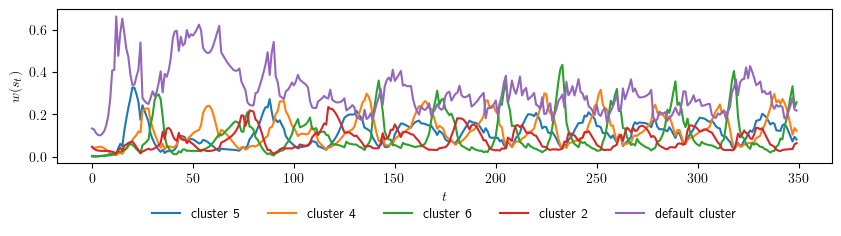
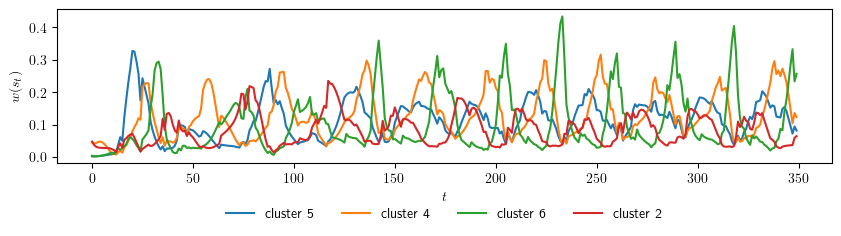
active default hopper only

diff --git a/plot_cluster_activation.py b/plot_cluster_activation.py
@@ -195,28 +195,28 @@ if __name__ == '__main__':
     # n_clusters = 10
     # # idxs = [k for k in range(n_clusters)]
     # idxs = [5, 4, 6, 2]
-    # plot_default = True
+    # plot_default = False
     # seed = 0
     # ratios = [3.5, 1]
 
-    # env_id = 'HopperBulletEnv-v0'
-    # log_name = 'Results/final_medium/HopperBulletEnv-v0/metricrl_c10hcovr_expdTruet1.0snone'
-    # n_clusters = 10
-    # # idxs = [k for k in range(n_clusters)]
-    # idxs = [0, 9, 4]
-    # plot_default = True
-    # seed = 12
-    # ratios = [3.5, 1]
-
-    env_id = 'HalfCheetahBulletEnv-v0'
-    log_name = 'Results/final_medium/HalfCheetahBulletEnv-v0/metricrl_c10hcovr_expdTruet0.33snone'
-    idxs = [4, 2, 9, 0]
-    # idxs = [k for k in range(10)]
-    # idxs = [0, 3, 4]
-    plot_default = True
-    seed = 2
-    ratios = [2, 1]
+    env_id = 'HopperBulletEnv-v0'
+    log_name = 'Results/final_medium/HopperBulletEnv-v0/metricrl_c10hcovr_expdTruet1.0snone'
     n_clusters = 10
+    # idxs = [k for k in range(n_clusters)]
+    idxs = [0, 9, 4]
+    plot_default = True
+    seed = 12
+    ratios = [3.5, 1]
+
+    # env_id = 'HalfCheetahBulletEnv-v0'
+    # log_name = 'Results/final_medium/HalfCheetahBulletEnv-v0/metricrl_c10hcovr_expdTruet0.33snone'
+    # idxs = [4, 2, 9, 0]
+    # # idxs = [k for k in range(10)]
+    # # idxs = [0, 3, 4]
+    # plot_default = False
+    # seed = 2
+    # ratios = [2, 1]
+    # n_clusters = 10
 
     max_time_all = 350
     max_time_selected = 350

diff --git a/replay.py b/replay.py
@@ -79,7 +79,7 @@ def load_policy(log_name, iteration, seed):
 
 
 if __name__ == '__main__':
-    dt = 1/5
+    dt = 1/3
     #dt = 0
 
     horizon = 1000
@@ -89,13 +89,13 @@ if __name__ == '__main__':
     # log_name = 'Results/final_medium/AntBulletEnv-v0/metricrl_c10hcovr_expdTruet0.33snone'
     # seed = 0
 
-    env_id = 'HopperBulletEnv-v0'
-    log_name = 'Results/final_medium/HopperBulletEnv-v0/metricrl_c10hcovr_expdTruet1.0snone'
-    seed = 12
+    # env_id = 'HopperBulletEnv-v0'
+    # log_name = 'Results/final_medium/HopperBulletEnv-v0/metricrl_c10hcovr_expdTruet1.0snone'
+    # seed = 12
 
-    # env_id = 'HalfCheetahBulletEnv-v0'
-    # log_name = 'Results/final_medium/HalfCheetahBulletEnv-v0/metricrl_c10hcovr_expdTruet0.33snone'
-    # seed = 2
+    env_id = 'HalfCheetahBulletEnv-v0'
+    log_name = 'Results/final_medium/HalfCheetahBulletEnv-v0/metricrl_c10hcovr_expdTruet0.33snone'
+    seed = 2
 
     policy = load_policy(log_name, iteration=1001, seed=seed)
 
